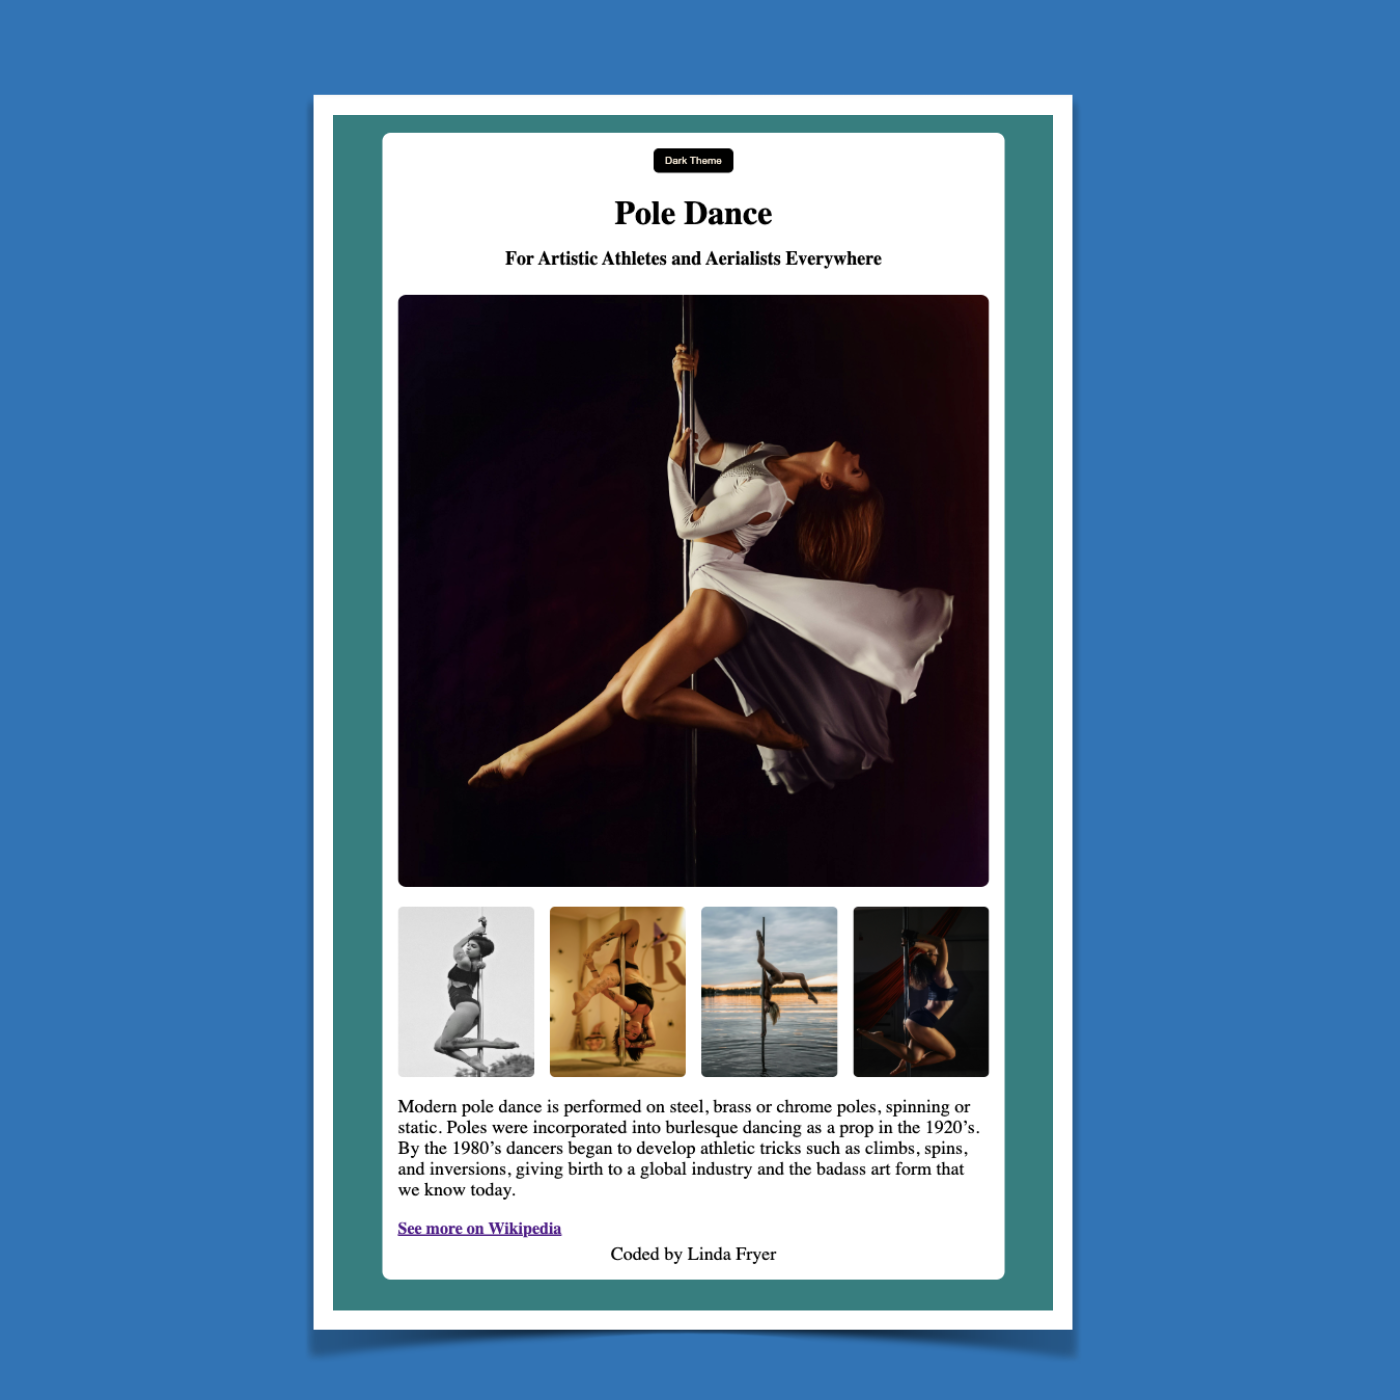
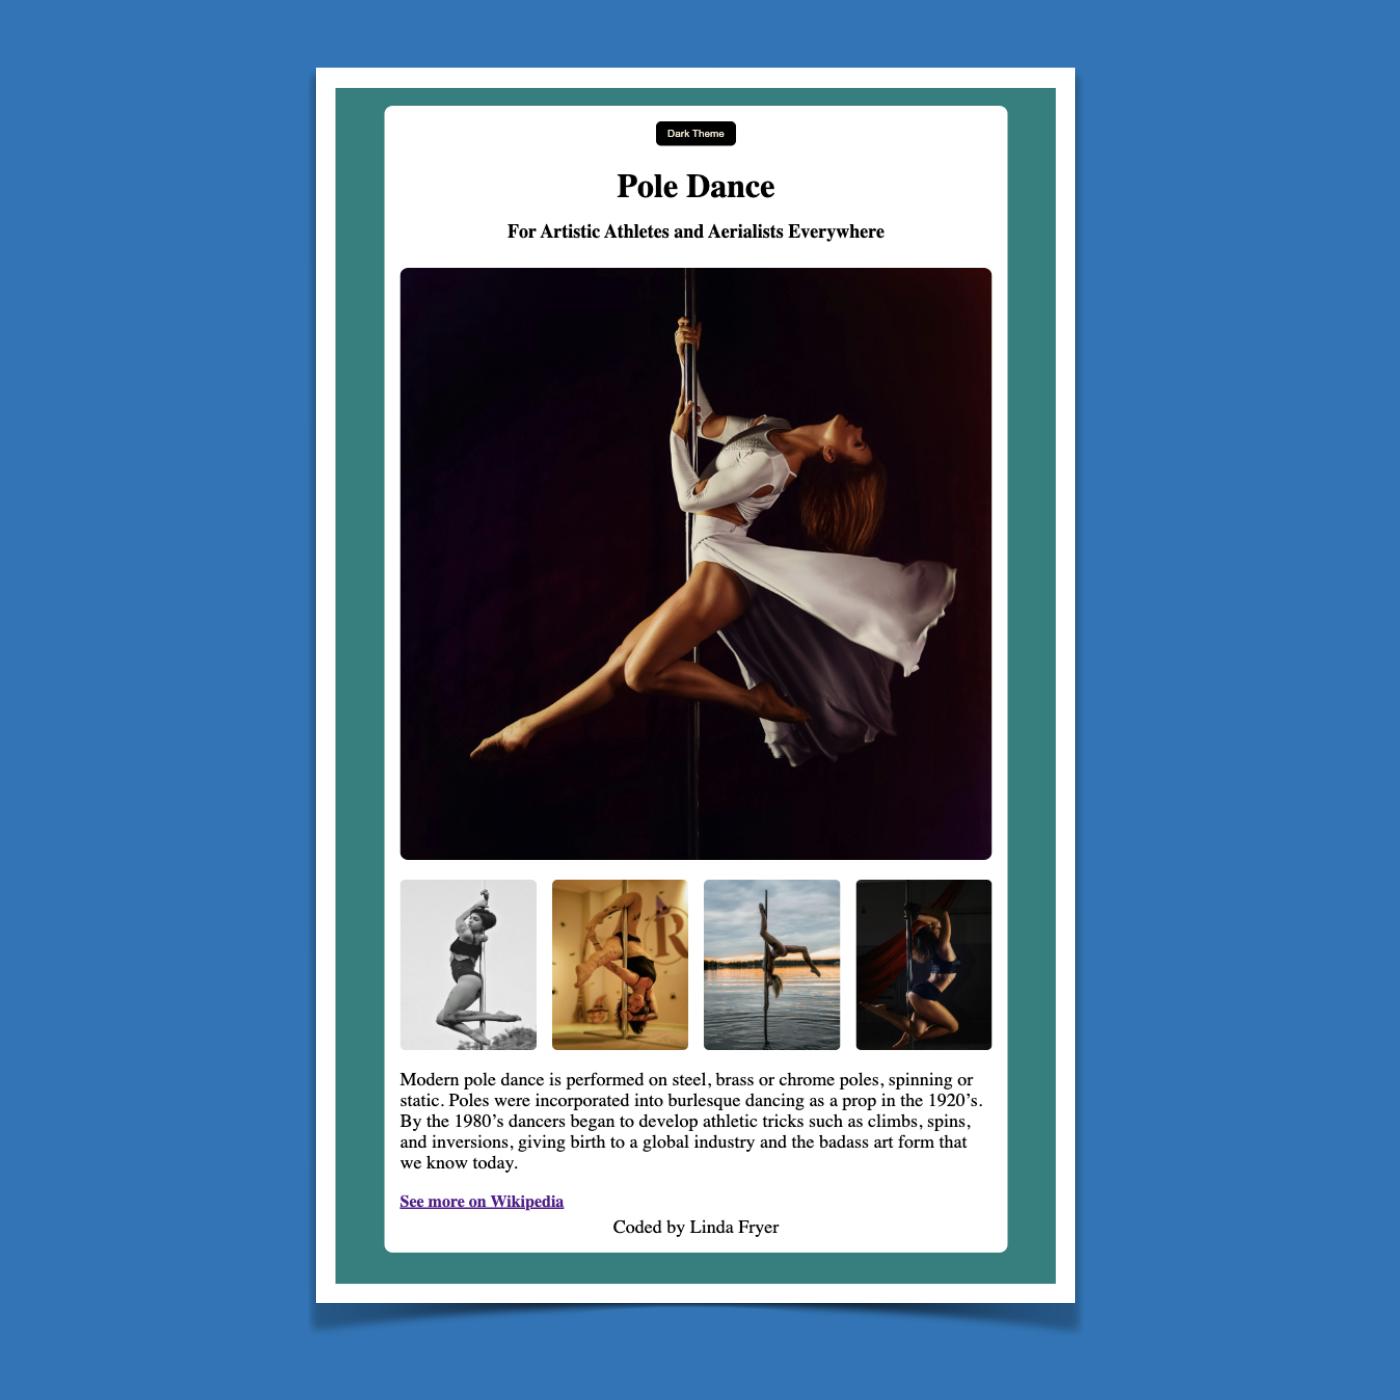
Created work page, added new project slides. Updated images

Changed region(s): [[0.215, 0.0307, 0.7679, 0.9829]]

diff --git a/work.html b/work.html
@@ -30,35 +30,12 @@
   </head>
   <body class="mb-5">
     <div class="container">
-      <div class="hero">
-        <a href="/about.html" class="temp-link">About Me</a>
-        <a href="/work.html" class="temp-link">My Work</a>
-        <div class="hero-inner d-flex">
-          <div class="hero-text d-flex flex-column justify-content-center">
-            <div><h1 class="name-title">LJ FRYER</h1></div>
-            <div class="hero-paragraph">
-              <p>
-                An experienced teacher with a lifelong passion for STEM, I
-                decided to apply my attention to detail and problem solving
-                skills to becoming a Front End Developer. Starting my journey
-                with SheCodes ignited my passion for coding. Each SheCodes
-                workshop culminates in a final project that showcases the
-                skills, languages, tools and frameworks that bring me one step
-                closer to creating aesthetically pleasing user interfaces that
-                are intuitive and responsive.
-              </p>
-            </div>
-          </div>
-          <img
-            src="/images/profile-picture-sqr.png"
-            alt="LJ Fryer"
-            class="img-fluid hero-image"
-          />
-        </div>
-      </div>
-      <h3 class="text-center p-2 mt-3 mb-3">A sample of my projects</h3>
-      <div class="homepage">
-        <div class="row">
+      <a href="/" class="temp-link">Home</a>
+      <a href="/about.html" class="temp-link">About Me</a>
+      <h1 class="text-center">My Work</h1>
+      <h3 class="text-center p-2 mt-3 mb-3">Check out my projects</h3>
+      <div class="my-work">
+        <div class="row mb-4">
           <div class="col-lg-4">
             <div class="project-slides">
               <img
@@ -128,7 +105,7 @@
           <div class="col-lg-4">
             <div class="project-slides">
               <img
-                src="/images/pole-page-img.png"
+                src="/images/pole-page-dark-image.png"
                 class="project-image img-fluid"
                 alt="Pole dance project"
               />
@@ -150,6 +127,104 @@
                     target="_blank"
                     class="project-link"
                     >passion project</a
+                  ><br />
+                </div>
+              </div>
+            </div>
+          </div>
+        </div>
+        <div class="row">
+          <div class="col-lg-4">
+            <div class="project-slides">
+              <img
+                src="/images/world-clock-image.png"
+                class="project-image img-fluid"
+                alt="LJ Fryer World Clock App"
+              />
+              <div class="project-description">
+                <div>
+                  <h2>World Clock</h2>
+                  <p class="mb-5">
+                    !Dummy text. My first interactive application, I added
+                    GitHub, hosting and API integration to my developer toolbox.
+                    This app employs ES6, integrating a search engine, functions
+                    to extract data from the API and string interpolation to
+                    deliver a live, five day weather forecast.
+                    <br />
+                    <br />
+                    Click to check the weather in your area.
+                  </p>
+                </div>
+                <div>
+                  <a
+                    href="https://weather-app-ljf.netlify.app/"
+                    target="_blank"
+                    class="project-link"
+                    >World Clock</a
+                  >
+                  <br />
+                </div>
+              </div>
+            </div>
+          </div>
+          <div class="col-lg-4">
+            <div class="project-slides">
+              <img
+                src="/images/dummy-slide.png"
+                class="project-image img-fluid"
+                alt="LJ Fryer Weather App"
+              />
+              <div class="project-description">
+                <div>
+                  <h2>AI Joke Generator</h2>
+                  <p class="mb-5">
+                    !Dummy text. This project gave me an introduction to AI
+                    prompt engineering. The mission was to build an interactive
+                    text generator using Axios and the SheCodes AI API.
+                    Including animations utilising JS plugin and CSS @keyframes
+                    rule, this app was a fun build.
+                    <br />
+                    <br />
+                    Click to try it out.
+                  </p>
+                </div>
+                <div>
+                  <a
+                    href="https://www.shecodes.io/cohorts/2203/projects/2466767?_gl=1*1hq72fe*_gcl_au*MTAxMzM5NjkwNy4xNzM0NDEzMDIx"
+                    target="_blank"
+                    class="project-link"
+                    >AI Joke for you</a
+                  >
+                  <br />
+                </div>
+              </div>
+            </div>
+          </div>
+          <div class="col-lg-4">
+            <div class="project-slides">
+              <img
+                src="/images/lucky-project-image.png"
+                class="project-image img-fluid"
+                alt="Pole dance project"
+              />
+              <div class="project-description">
+                <h2>Lucky Dog Project</h2>
+                <p class="mb-5">
+                  !Dummy text. Using developer tool VS Code, I built a HTML
+                  landing page featuring CSS grids, transform properties and a
+                  linear gradient. JavaScript class manipulation allowed me to
+                  create a light/dark theme option on the page. Click image for
+                  dark theme.
+                  <br />
+                  <br />
+                  Click to view the page.
+                </p>
+                <div>
+                  <a
+                    href="https://www.shecodes.io/cohorts/1936/projects/2443518?_gl=1*hmg0f*_gcl_au*MTAxMzM5NjkwNy4xNzM0NDEzMDIx"
+                    target="_blank"
+                    class="project-link"
+                    >Lucky boi</a
                   ><br />
                 </div>
               </div>

diff --git a/about.html b/about.html
@@ -32,7 +32,8 @@
     <main class="mb-5">
       <div class="container">
         <div class="about-me">
-          <a href="/index.html" class="temp-link">Home</a>
+          <a href="/" class="temp-link">Home</a>
+          <a href="/work.html" class="temp-link">My Work</a>
           <div class="about-me-inner d-flex">
             <img
               src="/images/trapeze-image.png"
